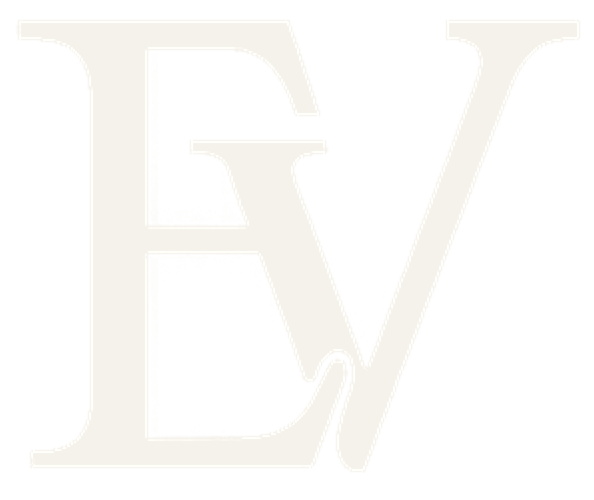
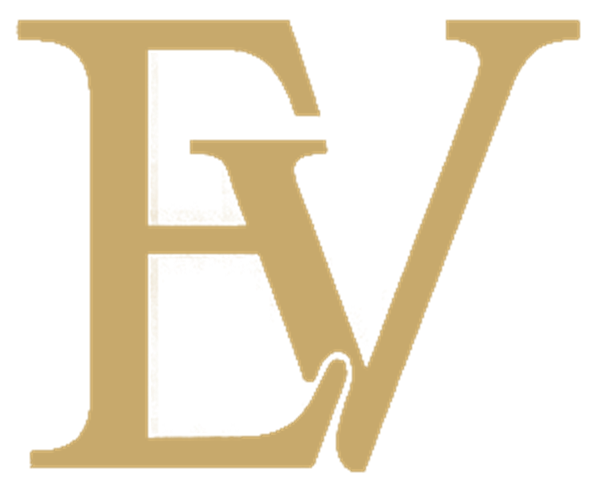
Hero emblem: gold tone, smaller, subtle pulse, drop ATELIER
Recolors the EV hero emblem to the brand gold, shrinks it, removes the
ATELIER subtitle, and adds a subtle scale + gold-glow pulse
(emblemPulse) that respects the reduce-motion switch.

Changed region(s): [[0.0303, 0.03, 1.0, 0.96]]

diff --git a/index.html b/index.html
@@ -2568,10 +2568,29 @@
 
         .hero-title-img {
             display: block;
-            width: clamp(8.5rem, 22vw, 15rem);
+            width: clamp(6rem, 14vw, 9.5rem);
             height: auto;
             margin: 0 auto;
             filter: drop-shadow(0 8px 30px rgba(0, 0, 0, 0.65));
+            animation: emblemPulse 3.6s ease-in-out infinite;
+        }
+
+        /* Subtle living pulse on the hero emblem */
+        @keyframes emblemPulse {
+            0%, 100% {
+                transform: scale(1);
+                opacity: 0.9;
+                filter: drop-shadow(0 8px 30px rgba(0, 0, 0, 0.65));
+            }
+            50% {
+                transform: scale(1.035);
+                opacity: 1;
+                filter: drop-shadow(0 8px 34px rgba(199, 169, 108, 0.4));
+            }
+        }
+
+        html.reduce-motion .hero-title-img {
+            animation: none;
         }
 
         .hero-subtitle {
@@ -5977,8 +5996,7 @@
             <source src="hero-video.mp4" type="video/mp4">
         </video>
         <div class="hero-content fade-in-up" style="--delay: 80ms;">
-            <h1 class="hero-title"><img class="hero-title-img" src="/assets/ev-emblem.png?v=20260714" alt="Eternal Void" width="594" height="500"></h1>
-            <p class="hero-subtitle" data-i18n="heroSubtitle">Atelier</p>
+            <h1 class="hero-title"><img class="hero-title-img" src="/assets/ev-emblem.png?v=20260714b" alt="Eternal Void" width="594" height="500"></h1>
             <div class="hero-actions">
                 <a href="#shop" class="cta-button" data-i18n="heroEnterBoutique">Enter The Boutique</a>
                 <button type="button" class="story-trigger-button" id="openStoryButton" data-i18n="heroReadStory">Read The Story</button>
